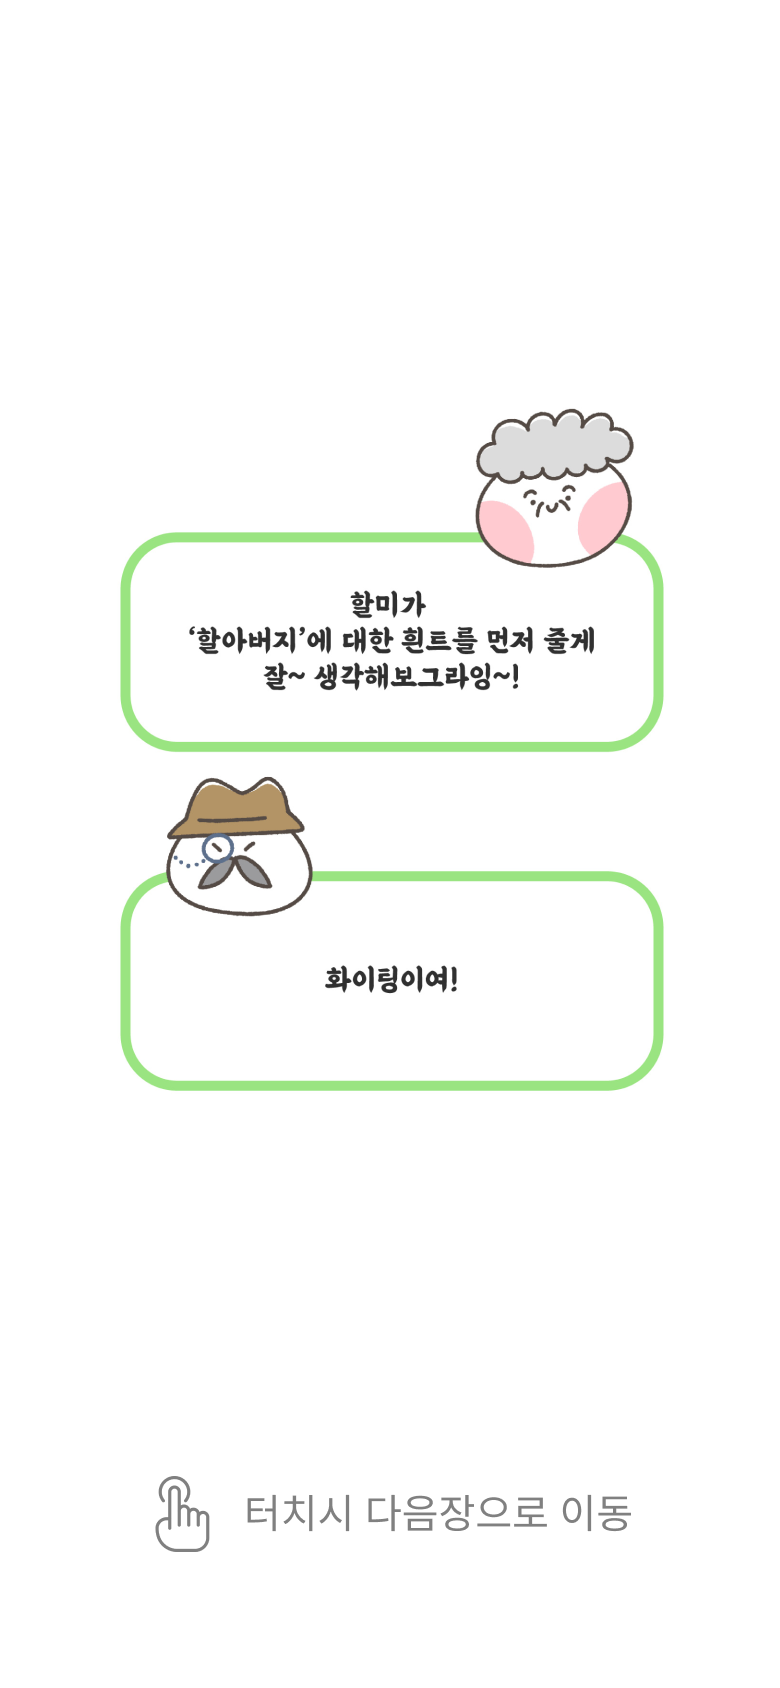
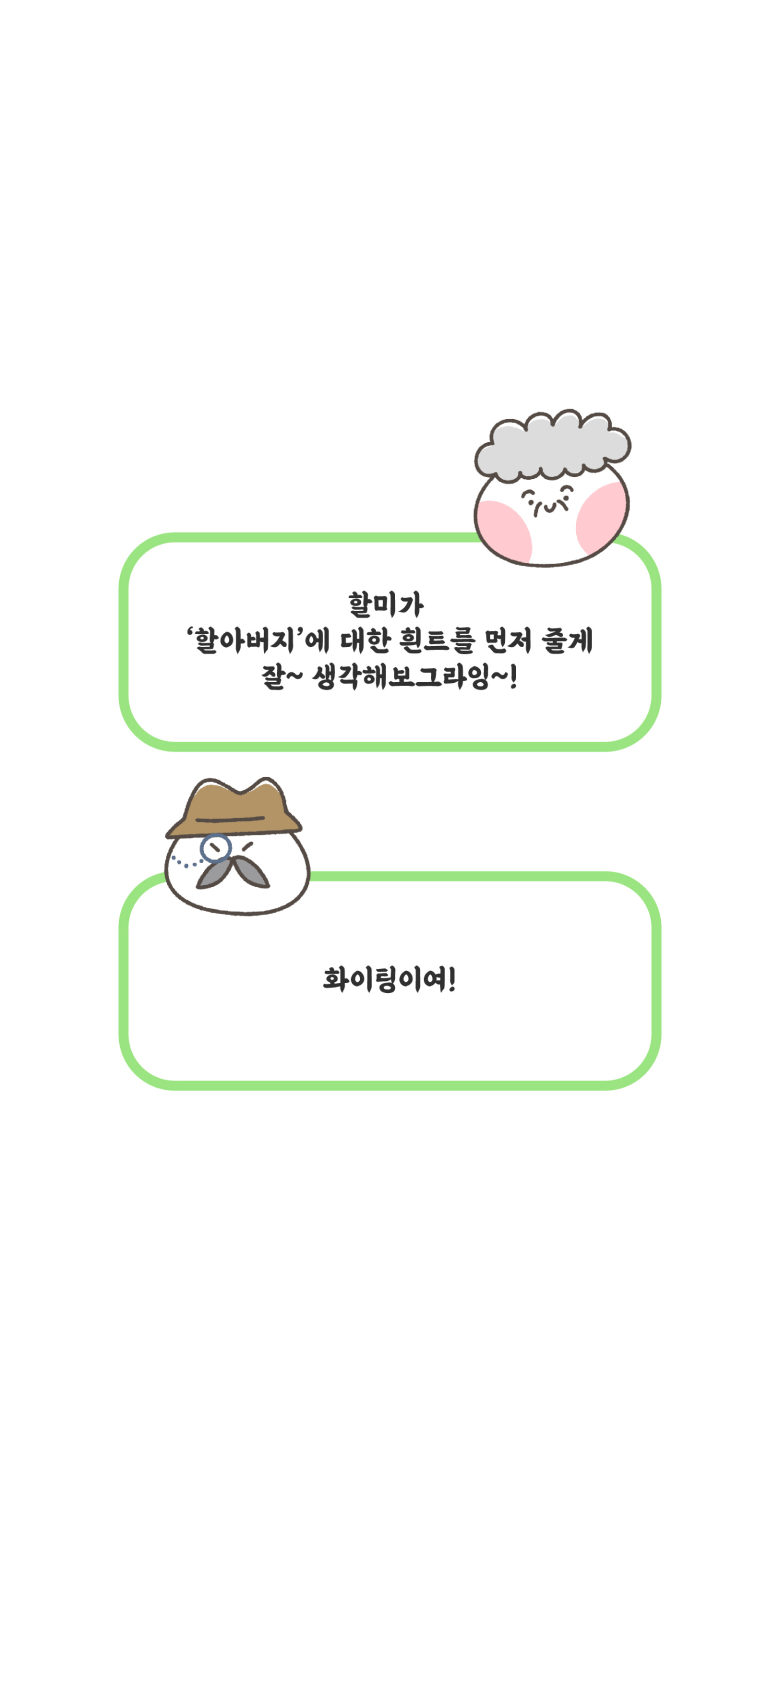
fix: img error

diff --git a/src/views/Event6.vue b/src/views/Event6.vue
@@ -1,36 +1,50 @@
 <template>
-    <div class="container" @click="click()">
-      <img class="icon" align = "left" src="../assets/backIcon.png" @click.stop="back()"> 
-    </div>
+  <div class="container" @click="click()">
+    <img
+      class="icon"
+      align="left"
+      src="../assets/backIcon.png"
+      @click.stop="back()"
+    />
+    <img class="bottom" src="../assets/touch.png" />
+  </div>
 </template>
 
 <script>
 export default {
   name: "Event6",
   methods: {
-    click(){
-      this.$router.push('Event7');
+    click() {
+      this.$router.push("Event7");
     },
-    back(){
-    this.$router.go(-1);
-    }
-  }
+    back() {
+      this.$router.go(-1);
+    },
+  },
 };
 </script>
 
 <style scoped>
-.container{
-    max-width: 500px;
-    min-height: 100vh;
-    background-image: url("../assets/ev6.png");
-    background-repeat: no-repeat;
-    background-size: cover;
-    background-position: center;
+.container {
+  max-width: 500px;
+  min-height: 100vh;
+  background-image: url("../assets/ev6.png");
+  background-repeat: no-repeat;
+  background-size: cover;
+  background-position: center;
+  position: relative;
 }
 
-.container .icon{
+.container .icon {
   height: 35px;
   width: 35px;
 }
 
+.container .bottom {
+  position: absolute;
+  width: 85%;
+  bottom: 20px;
+  left: 50%;
+  transform: translate(-50%, 0);
+}
 </style>

diff --git a/src/views/Event2_1.vue b/src/views/Event2_1.vue
@@ -1,6 +1,7 @@
 <template>
 <div class="container" @click="click()">
   <img class="icon" align = "left" src="../assets/backIcon.png" @click.stop="back()"> 
+  <img class="bottom" src="../assets/touch.png">
 </div>
 </template>
 
@@ -26,12 +27,21 @@ export default {
     background-repeat: no-repeat;
     background-size: cover;
     background-position: center;
+    position: relative;
 }
 
 .container .icon {
   height: 35px;
   width: 35px;
   z-index: 1;
+}
+
+.container .bottom{
+  position: absolute;
+  width: 85%;
+  bottom: 20px;
+  left: 50%;
+  transform: translate(-50%, 0);
 }
 
 </style>
